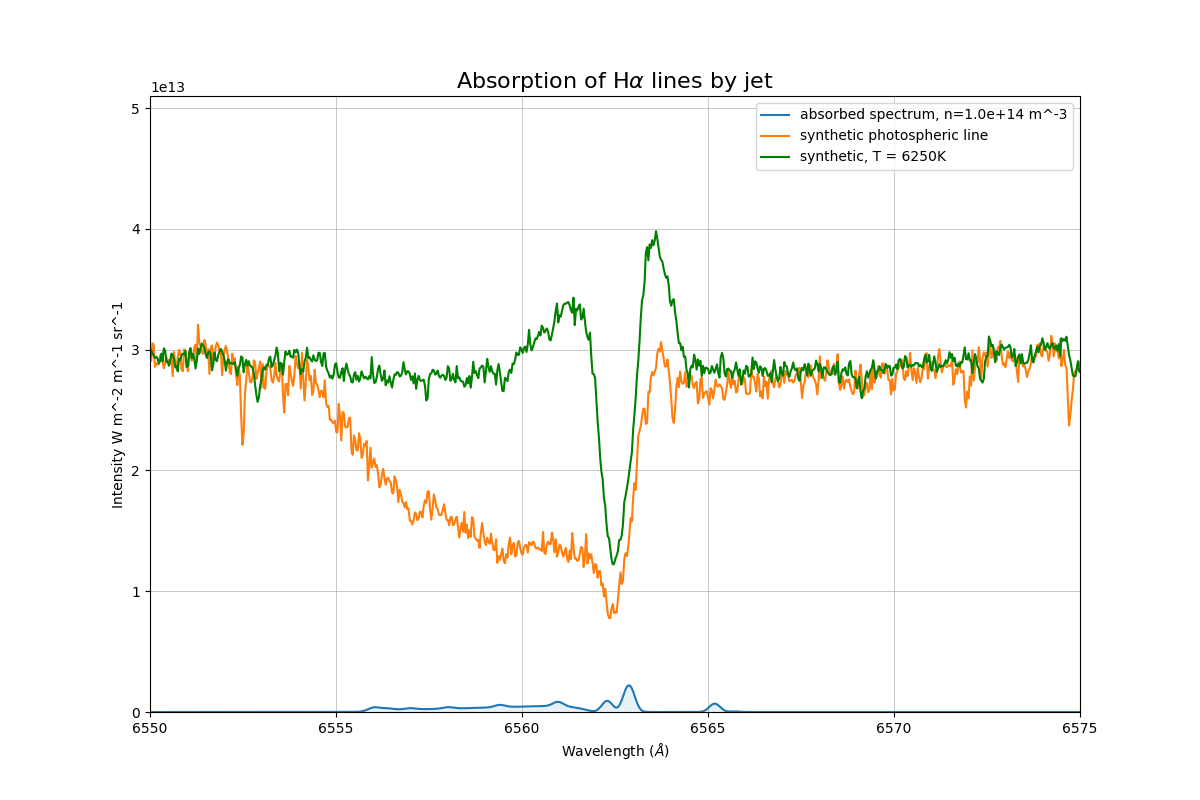
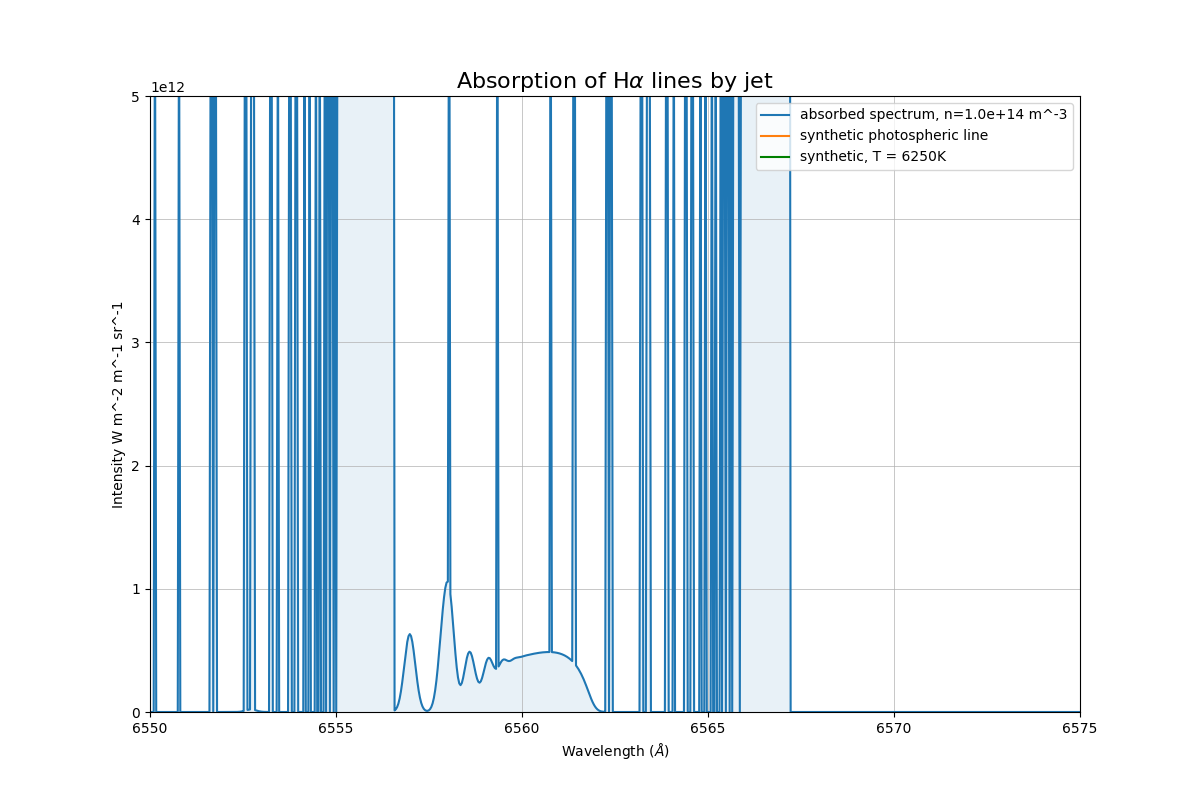
Finished test main.py part I

Changed region(s): [[0.1233, 0.125, 0.8942, 0.9062], [0.6475, 0.25, 0.6783, 0.3125]]

diff --git a/jet_accretion/radiative_transfer.py b/jet_accretion/radiative_transfer.py
@@ -144,12 +144,12 @@ def u_a(nu, nu_0, n_HI, n_e, Temp, rv, line='halpha'):
     if line=='hbeta':
         nu_0       = constants.c / ( 4861.3 * 1e-10 )
         nu_0_rv    = nu_0 * (1. - rv / constants.c)
-        C_rad      = 1e6 * 1e-10
-        C_vdw      = 5.5 * 1e-3 * 1e-20
-        C_stark    = 1.47 * 1e-2 * 1e-20
+        # C_rad      = 1e6 * 1e-10
+        # C_vdw      = 5.5 * 1e-3 * 1e-20
+        # C_stark    = 1.47 * 1e-2 * 1e-20
         delta_nu   = ( 2 * constants.k * Temp / constants.m_p)**.5 * nu_0_rv/constants.c
-        gamma_damp = C_rad + C_vdw * ( n_HI / 10**22 ) * ( Temp / 5000 )**0.3 + C_stark * ( n_e / 10**18 )**(2./3.)
-        a          = 1. / ( 4. * np.pi )
+        # gamma_damp = C_rad + C_vdw * ( n_HI / 10**22 ) * ( Temp / 5000 )**0.3 + C_stark * ( n_e / 10**18 )**(2./3.)
+        a          = 0.# delta_nu / ( 4. * np.pi * delta_nu )
         u          = ( nu - nu_0_rv ) / delta_nu
 
     return u, a, delta_nu
